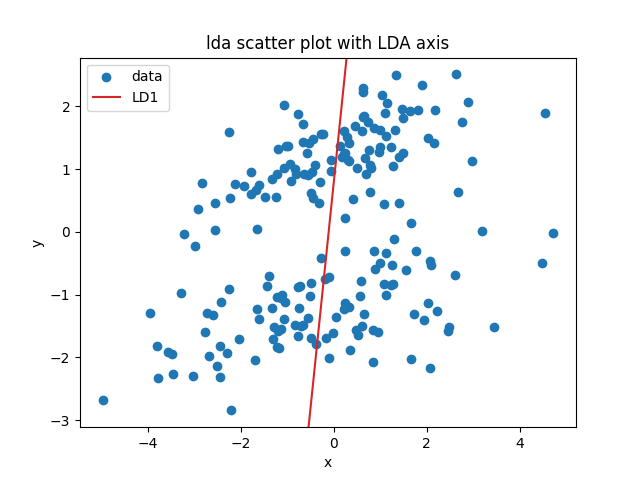
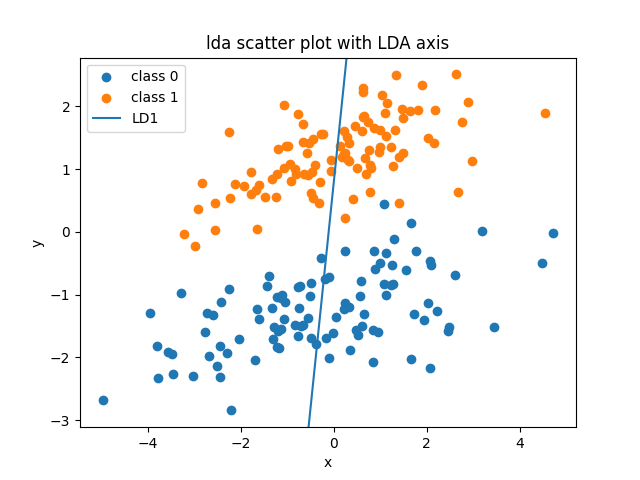
関数の説明追加

diff --git a/ex2/y_arakawa/main.py b/ex2/y_arakawa/main.py
@@ -10,9 +10,20 @@ matplotlib.rcParams["font.family"] = "sans-serif"
 
 
 def make2d_scatter_figure(x: pd.Series, y: pd.Series, title: str) -> None:
-    """2次元散布図を作成する."""
+    """
+    2次元データの散布図を作成して保存する.
+
+    Args:
+        x (pd.Series): x座標の1次元データ.
+        y (pd.Series): y座標の1次元データ.
+        title (str): 図のタイトルおよび保存ファイル名に使う文字列.
+
+    Returns:
+        None: `output/{title}.png` に図を保存する.
+    """
     fig = plt.figure()
     ax = fig.add_subplot(111)
+    ax.scatter(x, y, label="data")
     ax.legend(loc="upper left")
     ax.set_title(title)
     ax.set_ylabel("y")
@@ -29,7 +40,21 @@ def make2d_scatter_axis_figure(
     ave_y: float,
     title: str,
 ) -> None:
-    """主成分表示付きの2次元散布図を作成する."""
+    """
+    主成分軸を重ねた2次元散布図を作成して保存する.
+
+    Args:
+        x (pd.Series): x座標の1次元データ.
+        y (pd.Series): y座標の1次元データ.
+        coefficients (np.ndarray): 主成分方向を並べた2次元配列で、
+            形状は (2, 2) . 各列が1つの主成分方向を表す.
+        ave_x (float): 平均中心のx座標.
+        ave_y (float): 平均中心のy座標.
+        title (str): 図のタイトルおよび保存ファイル名に使う文字列.
+
+    Returns:
+        None: `output/{title}.png` に図を保存する.
+    """
     print(f"中心:\n({ave_x}, {ave_y})")
     fig = plt.figure()
     ax = fig.add_subplot(111)
@@ -49,7 +74,16 @@ def make2d_scatter_axis_figure(
 
 
 def ave_center_2d(X: np.ndarray) -> tuple[np.ndarray, float, float]:
-    """2次元データを平均中心化する."""
+    """
+    2次元データを平均中心化する.
+
+    Args:
+        X (np.ndarray): 2次元データの2次元配列で、形状は (N, 2) .
+
+    Returns:
+        tuple[np.ndarray, float, float]:
+            平均中心化後の2次元配列 (N, 2) と、平均x座標、平均y座標.
+    """
     ave_x = np.average(X[:, 0])
     ave_y = np.average(X[:, 1])
     ave = [ave_x, ave_y]
@@ -58,7 +92,17 @@ def ave_center_2d(X: np.ndarray) -> tuple[np.ndarray, float, float]:
 
 
 def pca_2d(X: np.ndarray) -> tuple[np.ndarray, np.ndarray, float, float]:
-    """2次元データのPCA."""
+    """
+    2次元データに対してPCAを実行する.
+
+    Args:
+        X (np.ndarray): 2次元データの2次元配列で、形状は (N, 2) .
+
+    Returns:
+        tuple[np.ndarray, np.ndarray, float, float]:
+            固有値の1次元配列 (2,), 主成分方向の2次元配列 (2, 2),
+            平均x座標, 平均y座標.
+    """
     X_centered, ave_x, ave_y = ave_center_2d(X)
     # 共分散行列
     X_cov = np.cov(X_centered.T)
@@ -83,7 +127,18 @@ def pca_2d(X: np.ndarray) -> tuple[np.ndarray, np.ndarray, float, float]:
 
 
 def make3d_scatter_figure(x: pd.Series, y: pd.Series, z: pd.Series, title: str) -> None:
-    """3次元散布図を作成する."""
+    """
+    3次元データの散布図を作成して保存する.
+
+    Args:
+        x (pd.Series): x座標の1次元データ.
+        y (pd.Series): y座標の1次元データ.
+        z (pd.Series): z座標の1次元データ.
+        title (str): 図のタイトルおよび保存ファイル名に使う文字列.
+
+    Returns:
+        None: `output/{title}.png` に図を保存する.
+    """
     fig = plt.figure()
     ax = fig.add_subplot(111, projection="3d")
     ax.scatter(x, y, z, label="data")
@@ -97,7 +152,16 @@ def make3d_scatter_figure(x: pd.Series, y: pd.Series, z: pd.Series, title: str) 
 
 
 def ave_center_3d(X: np.ndarray) -> tuple[np.ndarray, float, float, float]:
-    """3次元データを平均中心化する."""
+    """
+    3次元データを平均中心化する.
+
+    Args:
+        X (np.ndarray): 3次元データの2次元配列で、形状は (N, 3) .
+
+    Returns:
+        tuple[np.ndarray, float, float, float]:
+            平均中心化後の2次元配列 (N, 3) と、平均x座標、平均y座標、平均z座標.
+    """
     ave_x = np.average(X[:, 0])
     ave_y = np.average(X[:, 1])
     ave_z = np.average(X[:, 2])
@@ -107,7 +171,17 @@ def ave_center_3d(X: np.ndarray) -> tuple[np.ndarray, float, float, float]:
 
 
 def pca_3d(X: np.ndarray) -> tuple[np.ndarray, np.ndarray, float, float, float]:
-    """3次元データのPCA."""
+    """
+    3次元データに対してPCAを実行する.
+
+    Args:
+        X (np.ndarray): 3次元データの2次元配列で、形状は (N, 3) .
+
+    Returns:
+        tuple[np.ndarray, np.ndarray, float, float, float]:
+            固有値の1次元配列 (3,), 主成分方向の2次元配列 (3, 3),
+            平均x座標, 平均y座標, 平均z座標.
+    """
     X_centered, ave_x, ave_y, ave_z = ave_center_3d(X)
     # 共分散行列
     X_cov = np.cov(X_centered.T)
@@ -141,7 +215,23 @@ def make3d_scatter_axis_figure(
     ave_z: float,
     title: str,
 ) -> None:
-    """主成分の軸表示付きの3次元散布図を作成する."""
+    """
+    主成分軸を重ねた3次元散布図を作成して保存する.
+
+    Args:
+        x (pd.Series): x座標の1次元データ.
+        y (pd.Series): y座標の1次元データ.
+        z (pd.Series): z座標の1次元データ.
+        coefficients (np.ndarray): 主成分方向を並べた2次元配列で、
+            形状は (3, 3) . 各列が1つの主成分方向を表す.
+        ave_x (float): 平均中心のx座標.
+        ave_y (float): 平均中心のy座標.
+        ave_z (float): 平均中心のz座標.
+        title (str): 図のタイトルおよび保存ファイル名に使う文字列.
+
+    Returns:
+        None: `output/{title}.png` に図を保存する.
+    """
     print(f"中心:\n({ave_x}, {ave_y}, {ave_z})")
     fig = plt.figure()
     ax = fig.add_subplot(111, projection="3d")
@@ -180,7 +270,18 @@ def make3d_scatter_axis_figure(
 
 
 def PC_show(X: np.ndarray, eigvec: np.ndarray, title: str) -> None:
-    """主成分の計算と表示.第1・第2主成分スコアの2次元散布図."""
+    """
+    第1主成分と第2主成分への射影結果を2次元散布図として表示する.
+
+    Args:
+        X (np.ndarray): 平均中心化済みの3次元データの2次元配列で、
+            形状は (N, 3) .
+        eigvec (np.ndarray): 主成分方向を並べた2次元配列で、形状は (3, 3) .
+        title (str): 図のタイトルおよび保存ファイル名に使う文字列.
+
+    Returns:
+        None: 第1・第2主成分スコアの散布図を `output/{title}.png` に保存する.
+    """
     # 主成分への変換
     t1 = np.dot(X, eigvec[:, 0])
     t2 = np.dot(X, eigvec[:, 1])
@@ -196,14 +297,31 @@ def PC_show(X: np.ndarray, eigvec: np.ndarray, title: str) -> None:
 
 
 def ave_center_100d(X: np.ndarray) -> tuple[np.ndarray, np.ndarray]:
-    """100次元データを平均中心化する."""
+    """
+    100次元データを平均中心化する.
+
+    Args:
+        X (np.ndarray): 100次元データの2次元配列で、形状は (N, 100) .
+
+    Returns:
+        tuple[np.ndarray, np.ndarray]:
+            平均中心化後の2次元配列 (N, 100) と、各次元の平均を持つ1次元配列 (100,) .
+    """
     ave = np.average(X, axis=0)
     # 平均中心化
     return (X - ave, ave)
 
 
 def show_cumulative_contribution_ratio_sample_100d(X: np.ndarray) -> None:
-    """100次元データの累積寄与率をグラフで表示する."""
+    """
+    100次元データの累積寄与率をグラフで表示する.
+
+    Args:
+        X (np.ndarray): 100次元データの2次元配列で、形状は (N, 100) .
+
+    Returns:
+        None: 累積寄与率のグラフを `output/cumulative_contribution_ratio_100d.png` に保存する.
+    """
     X_centered, ave = ave_center_100d(X)
     # 共分散行列
     X_cov = np.cov(X_centered.T)
@@ -228,7 +346,17 @@ def show_cumulative_contribution_ratio_sample_100d(X: np.ndarray) -> None:
 
 
 def pca_100d(X: np.ndarray) -> tuple[np.ndarray, np.ndarray, np.ndarray]:
-    """100次元データのPCA.2次元まで圧縮する."""
+    """
+    100次元データに対してPCAを実行し、必要な主成分数の目安も確認する.
+
+    Args:
+        X (np.ndarray): 100次元データの2次元配列で、形状は (N, 100) .
+
+    Returns:
+        tuple[np.ndarray, np.ndarray, np.ndarray]:
+            固有値の1次元配列 (100,), 主成分方向の2次元配列 (100, 100),
+            各次元の平均を持つ1次元配列 (100,) .
+    """
     X_centered, ave = ave_center_100d(X)
     # 共分散行列
     X_cov = np.cov(X_centered.T)
@@ -256,7 +384,18 @@ def pca_100d(X: np.ndarray) -> tuple[np.ndarray, np.ndarray, np.ndarray]:
 
 
 def PC_show_pca_100d(X: np.ndarray, eigvec: np.ndarray, title: str) -> None:
-    """主成分の計算と表示.第1・第2主成分スコアの2次元散布図."""
+    """
+    第1主成分と第2主成分への射影結果を2次元散布図として表示する.
+
+    Args:
+        X (np.ndarray): 平均中心化済みの100次元データの2次元配列で、
+            形状は (N, 100) .
+        eigvec (np.ndarray): 主成分方向を並べた2次元配列で、形状は (100, 100) .
+        title (str): 図のタイトルおよび保存ファイル名に使う文字列.
+
+    Returns:
+        None: 第1・第2主成分スコアの散布図を `output/{title}.png` に保存する.
+    """
     # 主成分への変換
     t1 = np.dot(X, eigvec[:, 0])
     t2 = np.dot(X, eigvec[:, 1])
@@ -272,7 +411,18 @@ def PC_show_pca_100d(X: np.ndarray, eigvec: np.ndarray, title: str) -> None:
 
 
 def lda(X: np.ndarray) -> tuple[np.ndarray, np.ndarray, np.ndarray, np.ndarray]:
-    """ldaを実施."""
+    """
+    2クラスの2次元データに対して線形判別分析を実行する.
+
+    Args:
+        X (np.ndarray): 3列の2次元配列で、形状は (N, 3) .
+            1列目が x1, 2列目が x2, 3列目がクラスラベル (0 または 1) .
+
+    Returns:
+        tuple[np.ndarray, np.ndarray, np.ndarray, np.ndarray]:
+            固有値の1次元配列 (2,), 判別方向の2次元配列 (2, 2),
+            クラス0の平均ベクトル (2,), クラス1の平均ベクトル (2,) .
+    """
     # 行列をlabelごとに分離
     X0 = X[X[:, 2] == 0].reshape((-1, 3))[:, 0:2]
     X1 = X[X[:, 2] == 1].reshape((-1, 3))[:, 0:2]
@@ -312,21 +462,42 @@ def lda(X: np.ndarray) -> tuple[np.ndarray, np.ndarray, np.ndarray, np.ndarray]:
 def make_lda_scatter_axis_figure(
     x: pd.Series,
     y: pd.Series,
+    labels: pd.Series,
     coefficients: np.array,
     ave_x: float,
     ave_y: float,
     title: str,
 ) -> None:
     """
-    LDAの軸表示付きの2次元散布図を作成する.
+    LDAの判別軸を重ねた2次元散布図を作成して保存する.
 
-    軸の始点をクラス間の重心の中点に設定する.
+    Args:
+        x (pd.Series): x座標の1次元データ.
+        y (pd.Series): y座標の1次元データ.
+        labels (pd.Series): クラスラベルの1次元データ.
+        coefficients (np.ndarray): 判別方向を並べた2次元配列で、
+            形状は (2, 2) . 各列が1つの判別方向を表す.
+        ave_x (float): クラス重心の中点となるx座標.
+        ave_y (float): クラス重心の中点となるy座標.
+        title (str): 図のタイトルおよび保存ファイル名に使う文字列.
+
+    Returns:
+        None: `output/{title}.png` に図を保存する.
     """
     print(f"中心(中点):\n({ave_x}, {ave_y})")
     fig = plt.figure()
     ax = fig.add_subplot(111)
-    plt.scatter(x, y, label="data")
-    colors = ["tab:red"]
+    label_values = labels.to_numpy()
+    legend_labels = ["class 0", "class 1"]
+    colors = ["tab:blue", "tab:orange"]
+    for i, label_value in enumerate([0, 1]):
+        mask = label_values == label_value
+        ax.scatter(
+            x[mask],
+            y[mask],
+            color=colors[i % len(colors)],
+            label=legend_labels[i],
+        )
     for i in range(1):
         direction = coefficients[:, i]
         slope = direction[1] / direction[0] if direction[0] != 0 else np.inf
@@ -349,7 +520,22 @@ def make_lda_1dprojection_figure(
     coefficients: np.array,
     title: str,
 ) -> None:
-    """LDAの軸に射影した1次元散布図を作成する."""
+    """
+    LDAの判別軸へ射影した1次元分布を作成して保存する.
+
+    Args:
+        x (pd.Series): x座標の1次元データ.
+        y (pd.Series): y座標の1次元データ.
+        labels (pd.Series): クラスラベルの1次元データ.
+        ave_x (float): 射影基準となる中心点のx座標.
+        ave_y (float): 射影基準となる中心点のy座標.
+        coefficients (np.ndarray): 判別方向を並べた2次元配列で、
+            形状は (2, 2) . ここでは第1列を射影方向として使う.
+        title (str): 図のタイトルおよび保存ファイル名に使う文字列.
+
+    Returns:
+        None: LDA軸上への1次元射影を `output/{title}.png` に保存する.
+    """
     X = np.column_stack((x.to_numpy(), y.to_numpy()))
     direction = coefficients[:, 0]
     norm = np.linalg.norm(direction)
@@ -377,7 +563,13 @@ def make_lda_1dprojection_figure(
     plt.close()
 
 
-if __name__ == "__main__":
+def main() -> None:
+    """
+    サンプルデータを読み込み、PCAとLDAの可視化を順に実行する.
+
+    Returns:
+        None: CSVファイルを読み込み、各解析結果を `output/` 以下に保存する.
+    """
     # CSVファイルからデータを読み込む
     sample2d_raw = pd.read_csv("../data/pca_2d.csv", header=None)
     sample3d_raw = pd.read_csv("../data/pca_3d.csv", header=None)
@@ -435,6 +627,7 @@ if __name__ == "__main__":
     make_lda_scatter_axis_figure(
         sample2c_raw["x1"],
         sample2c_raw["x2"],
+        sample2c_raw["label"],
         eigvec,
         ave_x_mid,
         ave_y_mid,
@@ -449,3 +642,7 @@ if __name__ == "__main__":
         eigvec,
         "lda scatter plot with LDA axis (1d projection)",
     )
+
+
+if __name__ == "__main__":
+    main()
